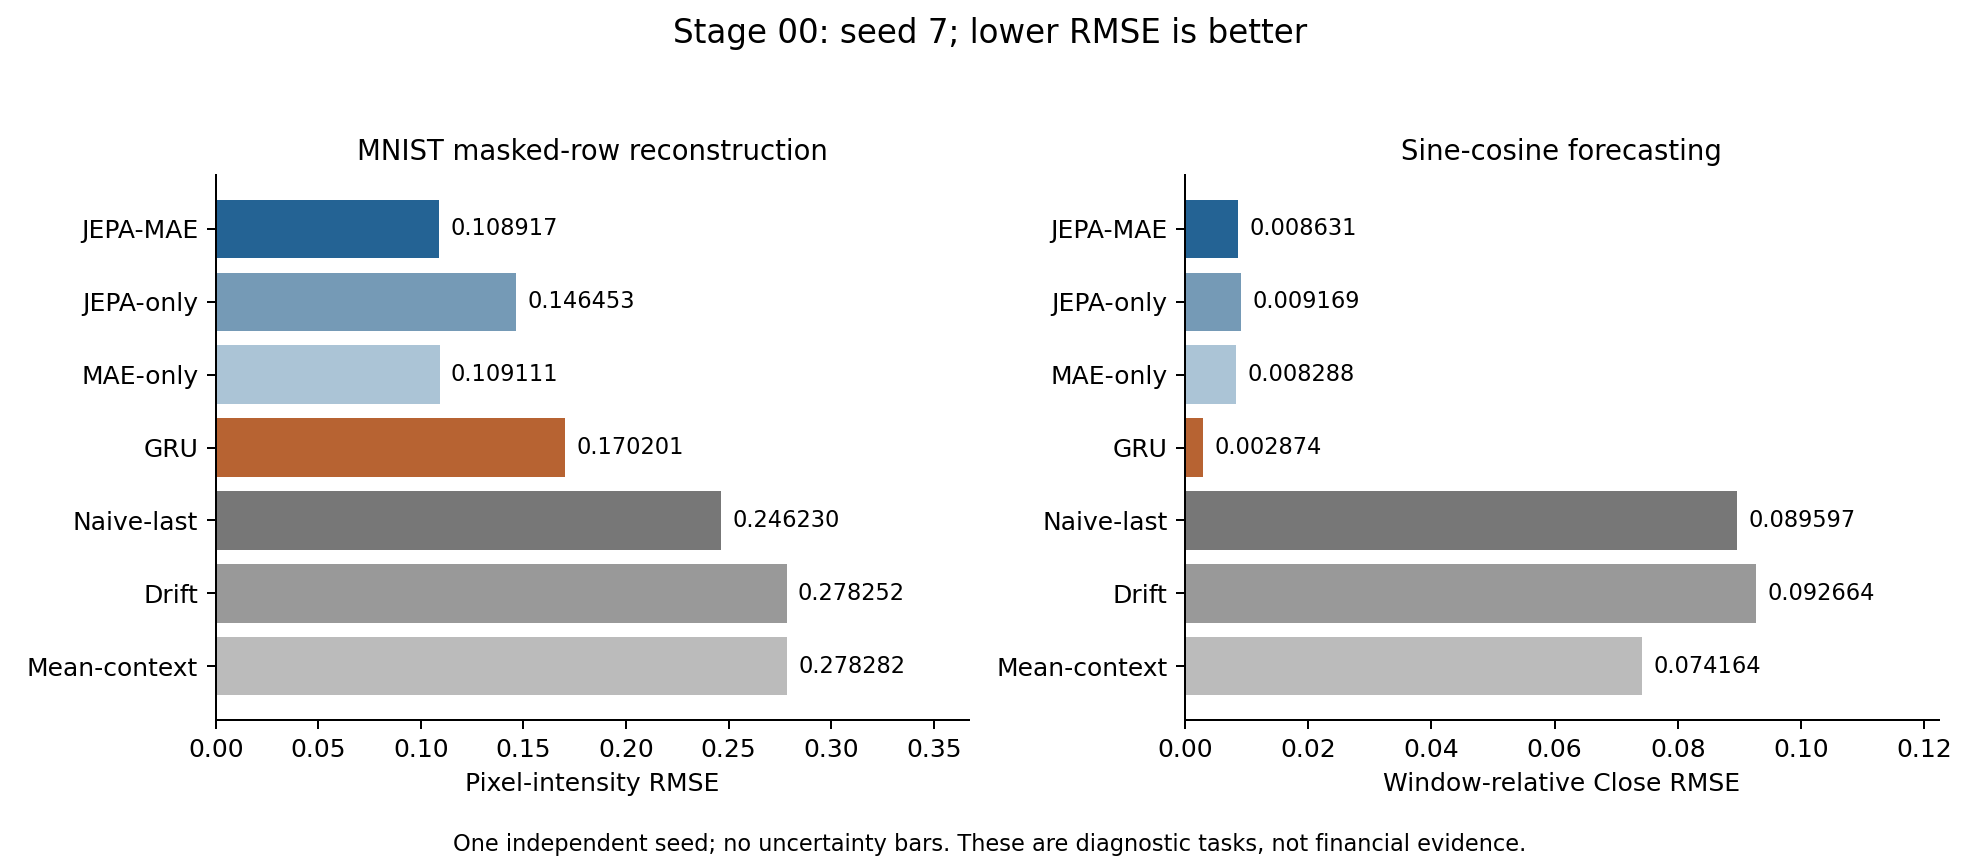
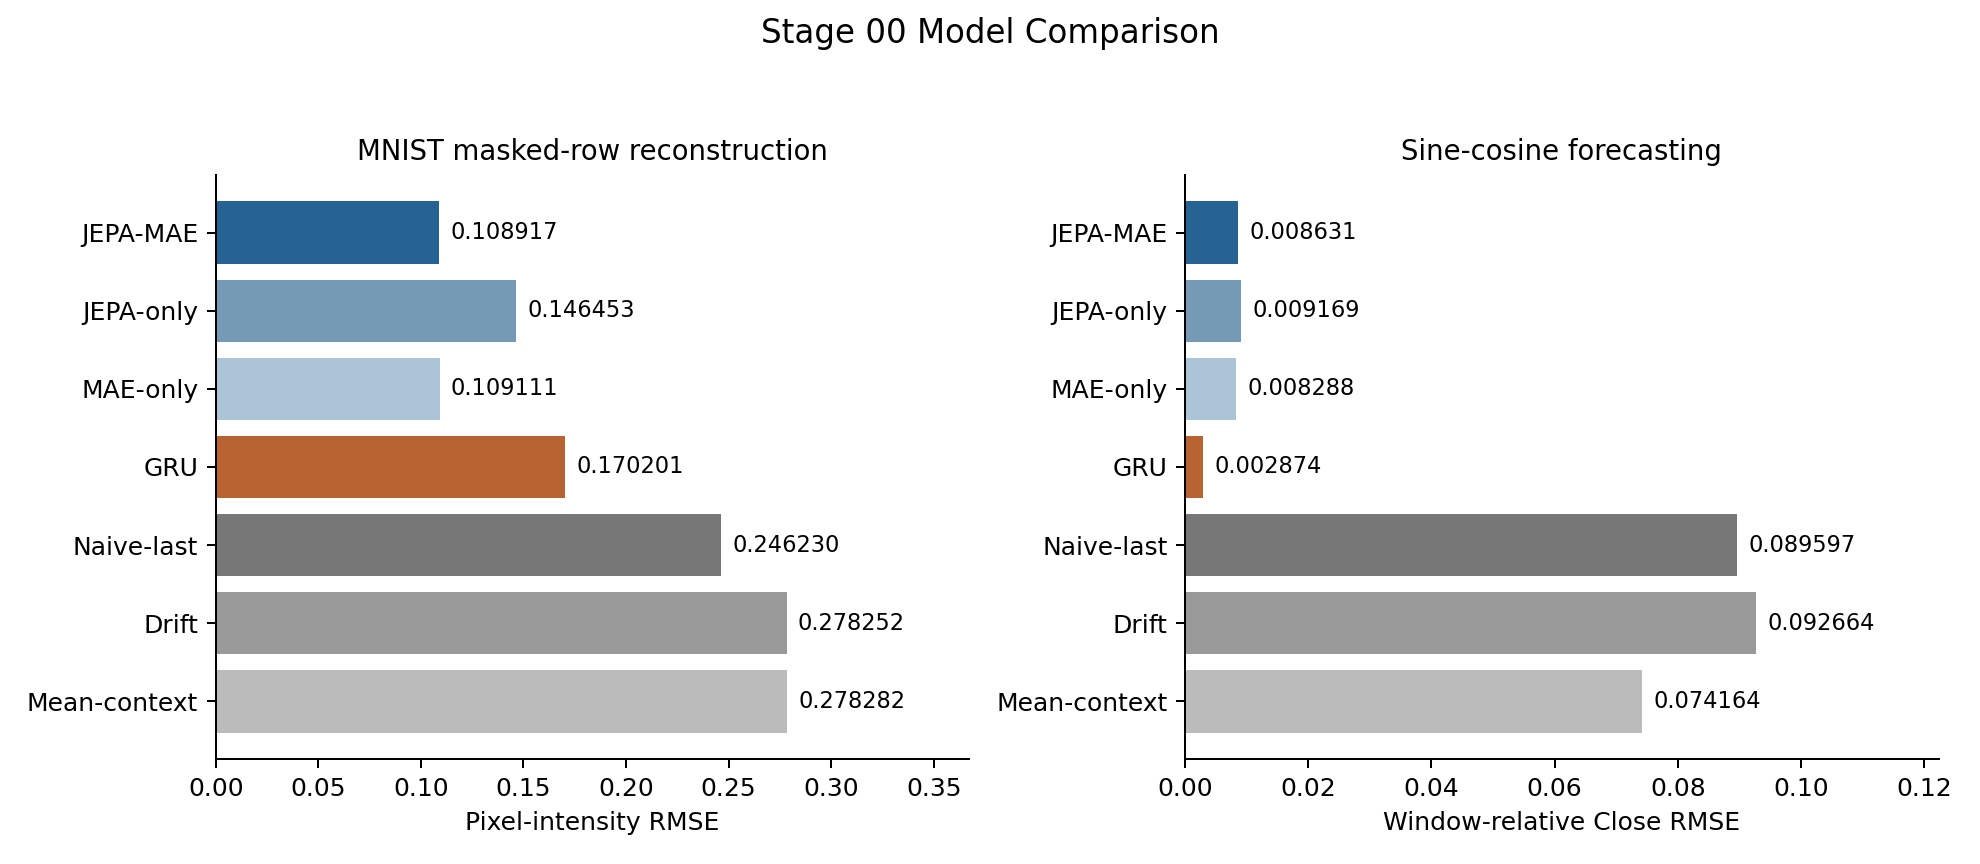
add

diff --git a/analysis/analyze_stage00_results.py b/analysis/analyze_stage00_results.py
@@ -179,10 +179,8 @@ def analyze(results, repeat, output):
         ax.spines[["top", "right"]].set_visible(False)
         for index, value in enumerate(values):
             ax.text(value + max(values) * .02, index, f"{value:.6f}", va="center", fontsize=9)
-    fig.suptitle("Stage 00: seed 7; lower RMSE is better", fontsize=13)
-    fig.text(.5, .015, "One independent seed; no uncertainty bars. These are diagnostic tasks, not financial evidence.",
-             ha="center", fontsize=9)
-    fig.tight_layout(rect=(0, .045, 1, .94))
+    fig.suptitle("Stage 00 Model Comparison", fontsize=13)
+    fig.tight_layout(rect=(0, 0, 1, .94))
     fig.savefig(output / "figures/rmse_comparison.png", dpi=180)
     plt.close(fig)
 

diff --git a/thesis_results/00_model_comparison/no-manifest-122a67f97c70/README.md b/thesis_results/00_model_comparison/no-manifest-122a67f97c70/README.md
@@ -65,3 +65,4 @@ Use a new `--output-dir` to regenerate analysis staging. Publication is local to
 - `SHA256SUMS` verifies every published file.
 - Files omitted by publication policy: 0. See `publication_manifest.csv`.
 - Large/raw artifacts should be attached to the matching GitHub Release.
+- User-requested figure presentation revision: simplified title and removed footnote; numerical data are unchanged. See `provenance/figure_revision.json`.
